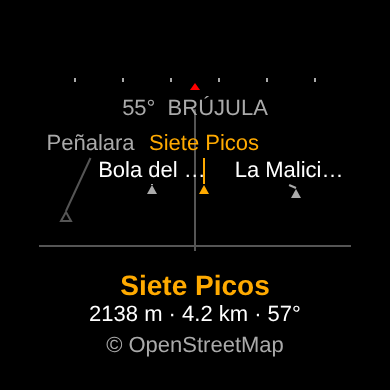
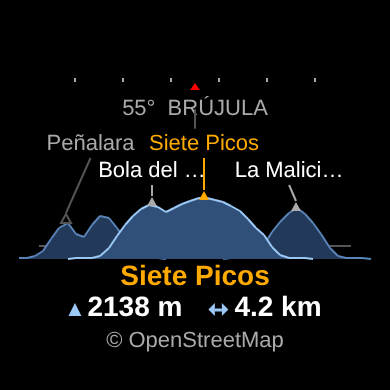
Estética: silueta de montañas por capas y ficha con altitud y distancia
Claude-Session: https://claude.ai/code/session_0148qsZtKrfrxGzekTrvD4BA

Changed region(s): [[0.0615, 0.3385, 0.9538, 0.9231], [0.1846, 0.4615, 0.2154, 0.4923]]

diff --git a/store/generador/render.html b/store/generador/render.html
@@ -4,6 +4,7 @@
 <script>
 // Réplica del dibujo de HorizonteCimasView.mc (mismas proporciones y colores Garmin).
 const C = {BLACK:'#000', WHITE:'#FFFFFF', LT_GRAY:'#AAAAAA', DK_GRAY:'#555555', YELLOW:'#FFAA00', RED:'#FF0000'};
+const SLOPE=0.4, COLS=44, LAYERS=[[20000,'#16243A','#34507A'],[8000,'#22395A','#5A84B8'],[0,'#30507A','#9CC8F5']];
 const FOV = 60, VEXAG = 4, MAX_LABELS = 5, HIDDEN_PENALTY = 4;
 const XTINY = '22px "Liberation Sans", sans-serif', TINY = 'bold 28px "Liberation Sans", sans-serif';
 const FH_XTINY = 25, FH_TINY = 31;
@@ -24,6 +25,7 @@ function drawScene(s){
     if (fill){ dc.fillStyle=col; dc.fill(); } else { dc.strokeStyle=col; dc.lineWidth=2; dc.stroke(); } };
 
   const usable = (top) => { const r=w/2, a=top-h/2, b=top+FH_XTINY-h/2, dy=Math.abs(a)>Math.abs(b)?a:b, q=r*r-dy*dy; return q<=0?0:2*Math.sqrt(q)*0.9; };
+  const angleToY = (ea) => { const px=ea*ppd*VEXAG; if (px>=0){ const up=horizonY-h*0.49; return Math.trunc(horizonY-up*px/Math.sqrt(up*up+px*px)); } const dn=h*0.665-horizonY; return Math.trunc(horizonY+dn*(-px)/Math.sqrt(dn*dn+px*px)); };
   const cx = w/2, hd = s.heading, ppd = w*0.74/FOV, horizonY = Math.round(h*0.63);
   dc.fillStyle = C.BLACK; dc.fillRect(0,0,w,h);
 
@@ -37,24 +39,35 @@ function drawScene(s){
   tri([[w/2,y+1],[w/2-5,y+8],[w/2+5,y+8]],C.RED,true);
 
   line(w*0.10,horizonY,w*0.90,horizonY,C.DK_GRAY);
-  line(cx,h*0.28,cx,horizonY+5,C.DK_GRAY);
 
   if (s.status){
     text(cx,Math.round(h*0.48),XTINY,C.LT_GRAY,fit(s.status,XTINY,w*0.83));
   } else {
-    const visible=[]; let sel=null, best=0;
+    const visible=[], terrain=[]; let sel=null, best=0;
     for (const p of s.peaks){
-      const dx = diff(p.b,hd); if (dx<-FOV/2||dx>FOV/2) continue;
+      const dx = diff(p.b,hd); if (Math.abs(dx)<=FOV/2+15) terrain.push([dx,p.ea,p.d]); if (dx<-FOV/2||dx>FOV/2) continue;
       const item=[dx, p.occ? p.ea-100 : p.ea, p]; visible.push(item);
       const score=Math.abs(dx)+(p.occ?HIDDEN_PENALTY:0);
       if (sel==null||score<best){ sel=item; best=score; }
     }
+    // Silueta por capas
+    const base=Math.trunc(h*0.665), x0=Math.trunc(w*0.05), step=(w-2*x0)/(COLS-1);
+    LAYERS.forEach((Lr,L)=>{ const minD=Lr[0], maxD=L==0?1e9:LAYERS[L-1][0];
+      const items=terrain.filter(t=>t[2]>minD&&t[2]<=maxD); if(!items.length) return;
+      const pts=[]; let any=false;
+      for(let c=0;c<COLS;c++){ const x=Math.trunc(x0+c*step), a=(x-cx)/ppd; let b=-90;
+        for(const it of items){ const e=it[1]-Math.abs(a-it[0])*SLOPE; if(e>b)b=e; }
+        let y=b<=-89?base:angleToY(b); if(y>base)y=base; if(y<base)any=true; pts.push([x,y]); }
+      if(!any) return;
+      dc.beginPath(); dc.moveTo(...pts[0]); pts.forEach(q=>dc.lineTo(...q)); dc.lineTo(pts[pts.length-1][0],base); dc.lineTo(pts[0][0],base); dc.closePath(); dc.fillStyle=Lr[1]; dc.fill();
+      for(let c=1;c<pts.length;c++) if(pts[c-1][1]<base||pts[c][1]<base) line(pts[c-1][0],pts[c-1][1],pts[c][0],pts[c][1],Lr[2]);
+    });
     visible.sort((a,b)=>b[1]-a[1]);
     const shown=[]; const inset=Math.trunc(w*0.12); const rowY=[Math.round(h*0.34), Math.round(h*0.34)+FH_XTINY+2];
     for (let i=-1;i<visible.length && shown.length<MAX_LABELS;i++){
       const item = i<0? sel : visible[i]; if (i>=0 && item===sel) continue;
       const row=item[2]; const x = cx + Math.trunc(item[0]*ppd);
-      const markerY = clamp(horizonY - Math.trunc(row.ea*ppd*VEXAG), Math.trunc(h*0.49), Math.trunc(h*0.68));
+      const markerY = angleToY(row.ea);
       const name = fit(row.name,XTINY,w*0.30); const half=(tw(name,XTINY)+1)/2;
       const lx = clamp(x, inset+half, w-inset-half);
       let lr=-1; for (let r=0;r<2&&lr<0;r++){ if(!shown.some(s2=>s2[2]==r && Math.abs(lx-s2[0]) < half+s2[1]+6)) lr=r; }
@@ -65,14 +78,23 @@ function drawScene(s){
       tri([[x,markerY-6],[x-5,markerY+3],[x+5,markerY+3]],lc,!row.occ);
       text(lx,labelY,XTINY,isSel?C.YELLOW:(row.occ?C.LT_GRAY:C.WHITE),name);
     }
-    const p=sel[2], infoY=Math.round(h*0.70);
-    text(cx,infoY,TINY,C.YELLOW,fit(p.name,TINY,w*0.72));
+    const p=sel[2], infoY=Math.round(h*0.675); s.occSel=!!p.occ;
+    text(cx,infoY,TINY,p.occ?C.LT_GRAY:C.YELLOW,fit(p.name,TINY,usable(infoY)));
     const dist = p.d<10000? (p.d/1000).toFixed(1)+' km' : Math.trunc(p.d/1000)+' km';
-    const det = Math.trunc(p.ele)+' m · '+dist+' · '+(p.occ? 'oculta?' : Math.trunc(p.b)+'°');
-    text(cx,infoY+FH_TINY,XTINY,C.WHITE,fit(det,XTINY,usable(infoY+FH_TINY)));
+    const alt = Math.trunc(p.ele)+' m', y2=infoY+FH_TINY, icon=Math.trunc(FH_TINY*0.45), gap=Math.trunc(icon*0.5), half=icon/2;
+    let f=TINY; let aw=tw(alt,f), dw=tw(dist,f); const arrow=Math.trunc(icon*1.6); let total=icon+gap+aw+icon*2+arrow+gap+dw;
+    if (total>usable(y2)){ f=XTINY; aw=tw(alt,f); dw=tw(dist,f); total=icon+gap+aw+icon*2+arrow+gap+dw; }
+    let x=cx-total/2; const midY=y2+FH_TINY/2, fy=y2+(FH_TINY-(f===TINY?FH_TINY:FH_XTINY))/2;
+    tri([[x,midY+half],[x+half,midY-half],[x+icon,midY+half]],'#9CC8F5',true); x+=icon+gap;
+    dc.textAlign='left'; text(x,fy,f,C.WHITE,alt); x+=aw+icon*2;
+    dc.fillStyle='#9CC8F5'; dc.fillRect(x+half,midY-1,arrow-icon,3); tri([[x,midY],[x+half,midY-half],[x+half,midY+half]],'#9CC8F5',true); tri([[x+arrow,midY],[x+arrow-half,midY-half],[x+arrow-half,midY+half]],'#9CC8F5',true);
+    x+=arrow+gap; text(x,fy,f,C.WHITE,dist); dc.textAlign='center';
   }
   text(cx,Math.round(h*0.25),XTINY,C.LT_GRAY,Math.trunc(hd)+'°  '+s.mode);
-  text(cx,Math.round(h*0.86),XTINY,C.LT_GRAY,fit(s.foot||'© OpenStreetMap',XTINY,usable(Math.round(h*0.86))));
+  line(cx,h*0.28,cx,h*0.33,C.DK_GRAY);
+  const fy2=Math.round(h*0.845); let foot=s.foot||(s.occSel?'Quizá oculta':'© OpenStreetMap');
+  if (foot==='© OpenStreetMap' && tw(foot,XTINY)>usable(fy2)) foot='© OSM';
+  text(cx,fy2,XTINY,C.LT_GRAY,fit(foot,XTINY,usable(fy2)));
 
   // Máscara circular de la pantalla AMOLED
   dc.globalCompositeOperation='destination-in'; dc.beginPath(); dc.arc(cx,h/2,h/2,0,Math.PI*2); dc.fill();

diff --git a/HorizonteCimas/README.md b/HorizonteCimas/README.md
@@ -12,6 +12,8 @@ Apunta el reloj hacia el horizonte para identificar cumbres: **nombre, elevació
 - **Arranque inmediato.** La última posición conocida basta para mostrar las cimas de la caché al abrir la app. Para descargar sigue haciendo falta un fijo GPS real, y la última posición conocida nunca sustituye a un fijo ya obtenido.
 - **Cimas posiblemente ocultas.** Si una cima más cercana, en un rumbo próximo, asoma por encima de la línea de visión de otra más lejana, esta se dibuja con un triángulo hueco en gris. También pierde prioridad en etiquetas y selección, y la ficha añade «oculta?». La regla no usa un modelo del terreno: supone laderas de ~22° y solo se aplica con altitud GPS.
 - **Avisos más claros.** Sin brújula, el pie indica «Gira con ARRIBA/ABAJO». También indica cuando la posición es aproximada. Los avisos «Esperando GPS preciso…» y «Cimas fuera de zona» desaparecen al volver a tener datos de la zona.
+- **Silueta de las montañas.** Se dibuja un perfil del horizonte en tres capas de distancia (más de 20 km, de 8 a 20 km y menos de 8 km), de lejos y oscuro a cerca y claro. Cada cima se modela como un cono con la misma pendiente que la pista de oclusión. Las cimas altas se comprimen suavemente en lugar de recortarse. Solo se dibuja con altitud GPS.
+- **Ficha de la cima centrada.** Muestra el nombre y, debajo, la altitud (▲) y la distancia (↔) en letra grande con iconos. Las etiquetas van en dos filas (hasta 5) y los textos se ajustan al ancho real de la pantalla redonda.
 - La caché pasa a la versión 2 (cimas ordenadas por rumbo) y migra sola desde las versiones 0.2 y 0.3.
 - Nuevas pruebas Monkey C: `overpassScaling`, `retryPolicy` y `occlusionHint`. El validador Python comprueba también la lista de servidores y la regla de oclusión.
 
